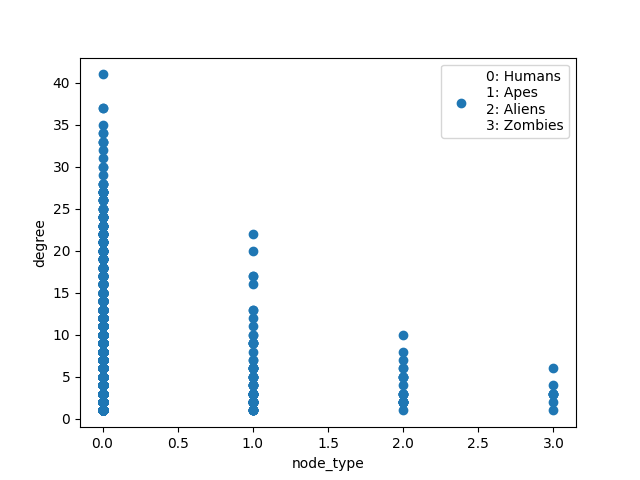
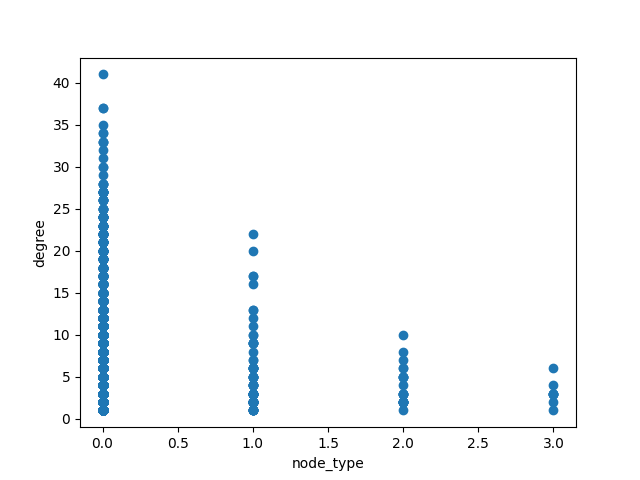
Fix hist visualization

Changed region(s): [[0.6875, 0.125, 0.9062, 0.2812]]

diff --git a/main.py b/main.py
@@ -2,6 +2,7 @@ from re import sub
 from typing import List
 from networkx.algorithms.core import k_core
 from networkx.algorithms.distance_measures import diameter
+from networkx.algorithms.smallworld import sigma
 from networkx.classes.digraph import DiGraph
 from networkx.classes.function import degree
 from networkx.classes.graph import Graph
@@ -235,8 +236,9 @@ def graphs_creation():
 
 def deg_distr_analysis(degrees: List, graph_name: str):
     # Pareto analysis
-    # Copy values, needed because for pareto analysis we need to order the list,
+    # Copy values is needed because for pareto analysis we need to order the list,
     # but for correlation analysis we need the original order of the elements
+    # for the graph node_type - degree in order to have data matching
     degrees = degrees[:]
     degrees.sort()
     degrees.reverse()
@@ -253,9 +255,9 @@ def deg_distr_analysis(degrees: List, graph_name: str):
     # Plot degree distr
     fig, (ax1, ax2) = plt.subplots(1, 2, sharex=False, sharey=False)
     ax1.hist(degrees, bins=30)
-    ax2.hist(degrees, bins=30)
     ax2.set_yscale("log")
     ax2.set_xscale("log")
+    ax2.hist(degrees, bins="auto")
     fig.supxlabel('Degree')
     fig.supylabel('Frequency')
     fig.savefig('./out/'+graph_name+"_deg_dist")
@@ -264,9 +266,10 @@ def deg_distr_analysis(degrees: List, graph_name: str):
 
 def graph_analysis(mdg: MultiDiGraph, graph_name: str):
     # graph name is used while saving images and for analysis
-    # TODO: rimuovere nodi con degree < 1? Significa che hanno riscattato il token e non lo hanno mai usato
-    # matrix.remove_node(__NULL_ADDRESS)
     mg: MultiGraph = mdg.to_undirected()
+    # Null address removal. We will study the network using also non human addresses
+    # mg.remove_node(__NULL_ADDRESS)
+    # mg.remove_nodes_from(list(nx.isolates(mg)))
     g = nx.Graph(mdg)
     g.remove_edges_from(nx.selfloop_edges(g))
     if graph_name != "bg":
@@ -306,7 +309,6 @@ def graph_analysis(mdg: MultiDiGraph, graph_name: str):
         plt.scatter(node_type, degrees)
         plt.xlabel("node_type")
         plt.ylabel("degree")
-        plt.legend(["0: Humans\n1: Apes\n2: Aliens\n3: Zombies"])
         plt.savefig('./out/'+graph_name+"_type_deg")
         r_coefficent = stats.pearsonr(node_type, degrees)
         print("Pearson coefficent. r: ",
@@ -315,10 +317,10 @@ def graph_analysis(mdg: MultiDiGraph, graph_name: str):
 
 def debug(data: MultiDiGraph):
     data = data.to_undirected()
-    degrees = [node for node, degree in data.degree()
-               if node in range(0, 10001)]
-    node_type = [id for id, values in data.nodes(
-        data=True) if id in range(0, 10001)]
+    sigma = nx.algorithms.sigma(data)
+    print("Sigma: ", sigma)
+    omega = nx.algorithms.omega(data)
+    print("Omega: ", omega)
 
 
 if __name__ == "__main__":
@@ -339,7 +341,7 @@ if __name__ == "__main__":
     '''Edgelist of the bipartite graph Nft - owner'''
     # nx.to_pandas_edgelist(bg).to_csv(
     #    ./out/bipartite.csv", index=False, mode="w")
-    # debug(bg)
     graph_analysis(fg, "fg")
     graph_analysis(bg, "bg")
+    # debug(fg)
     pass
